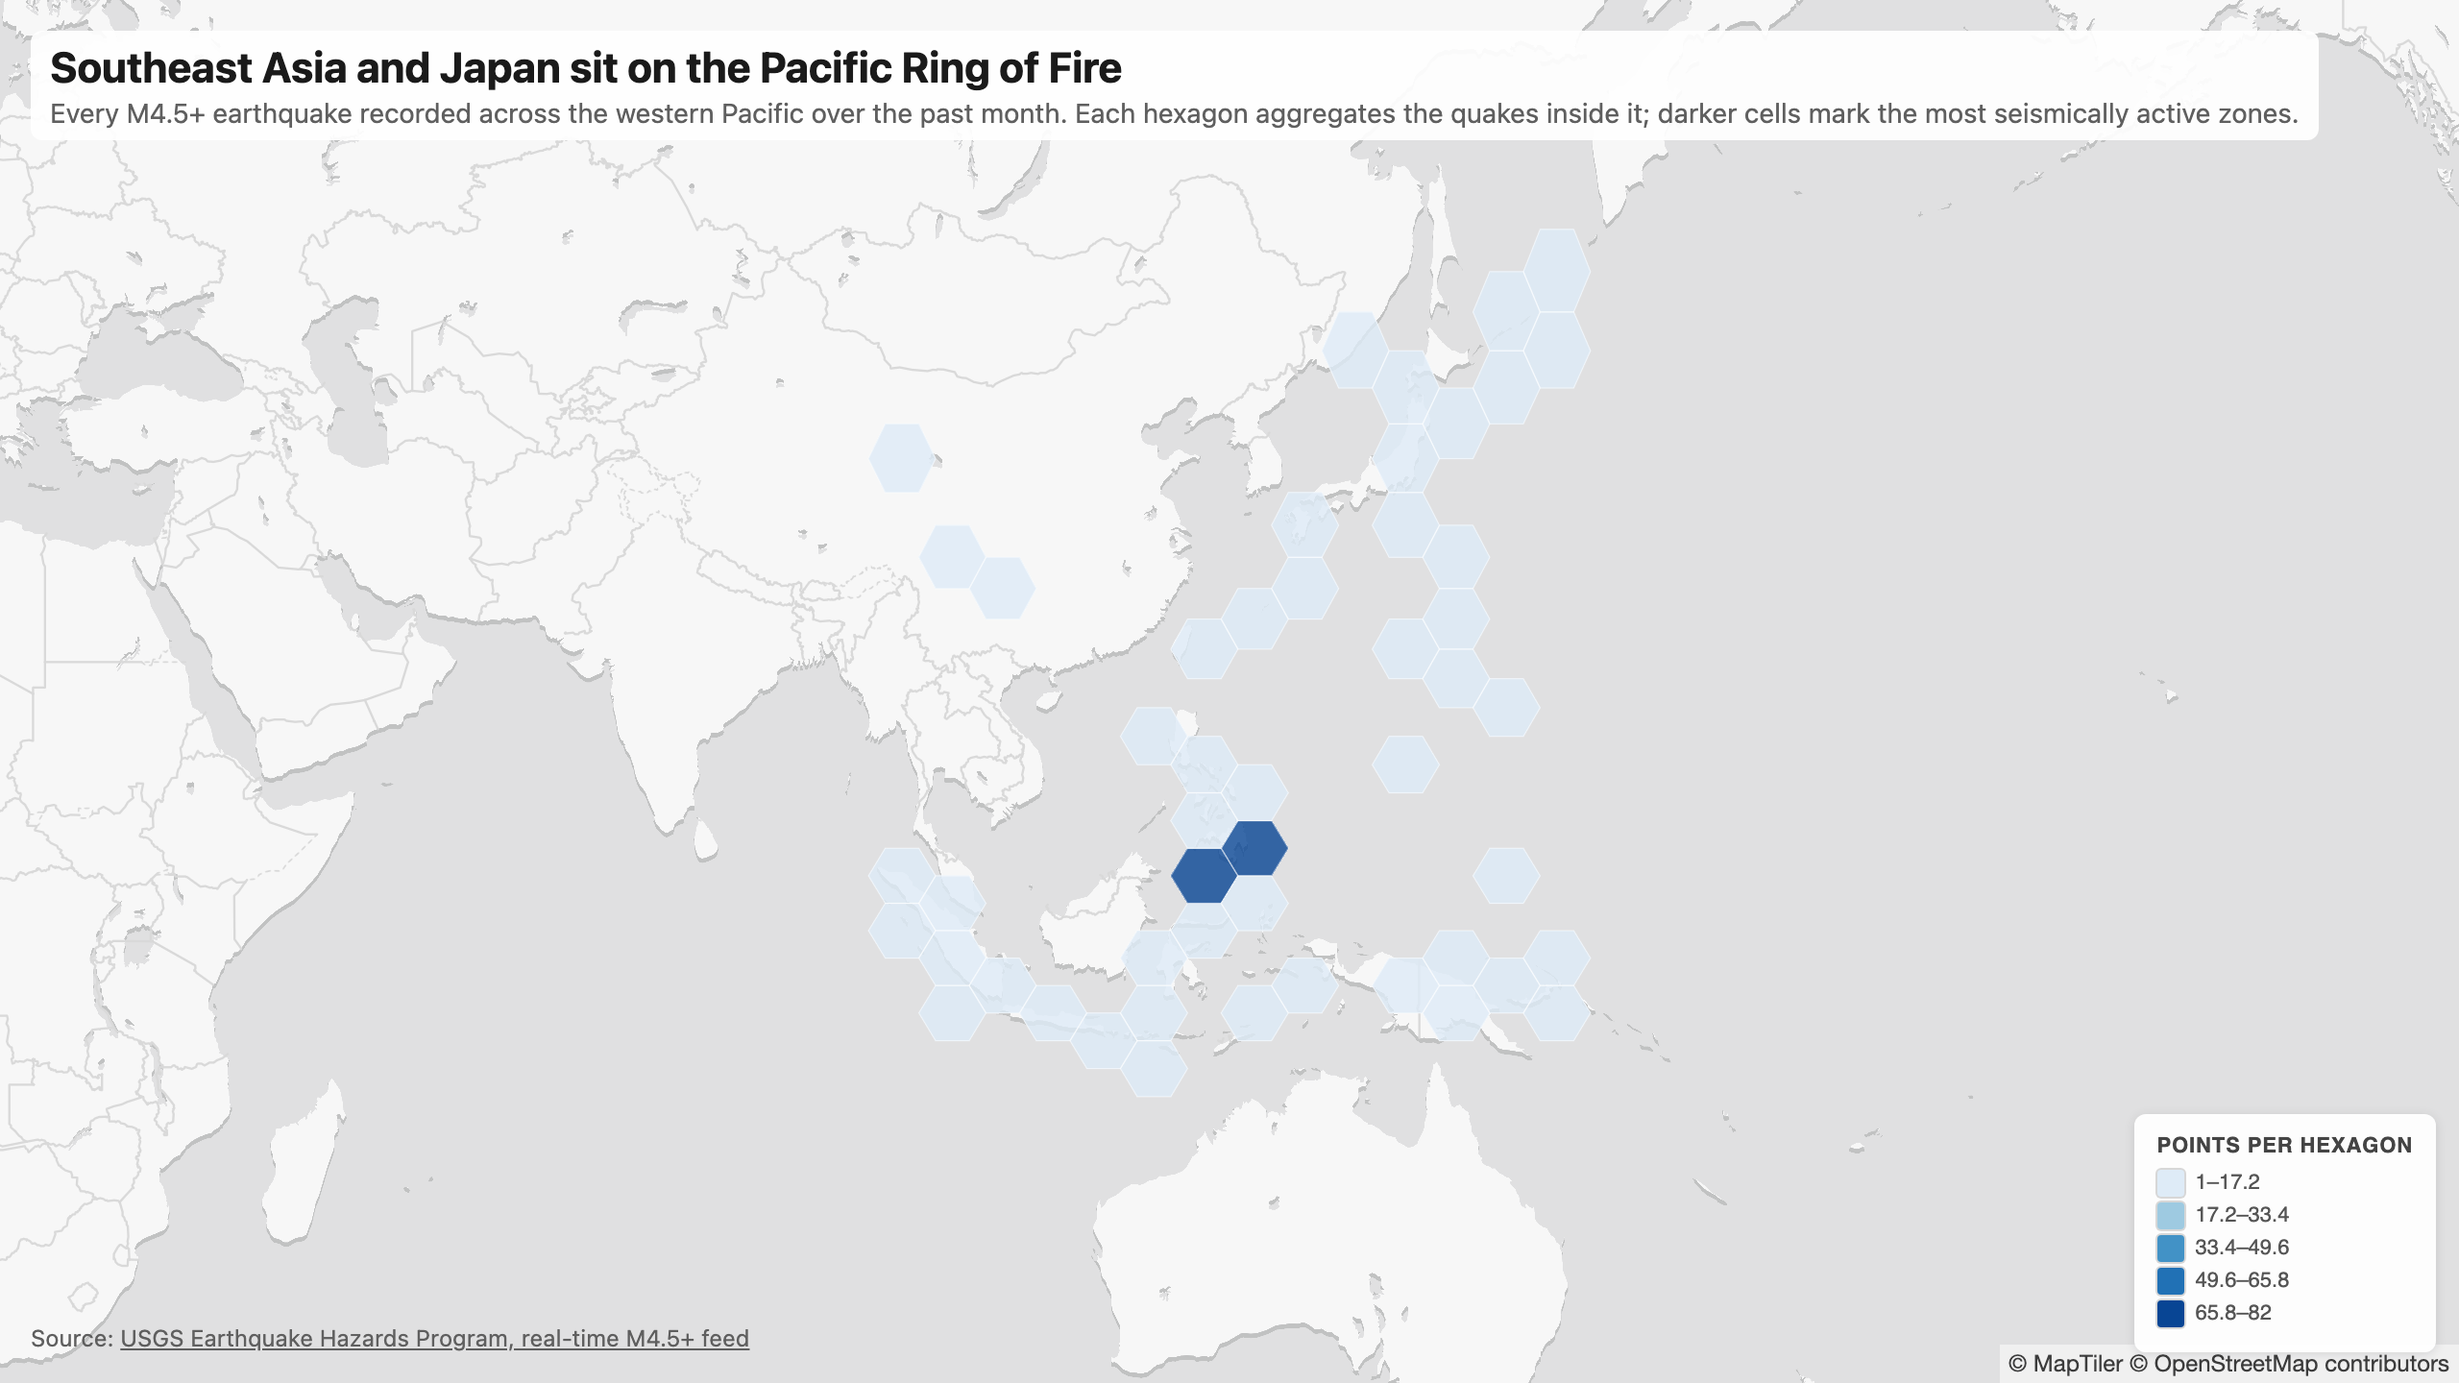
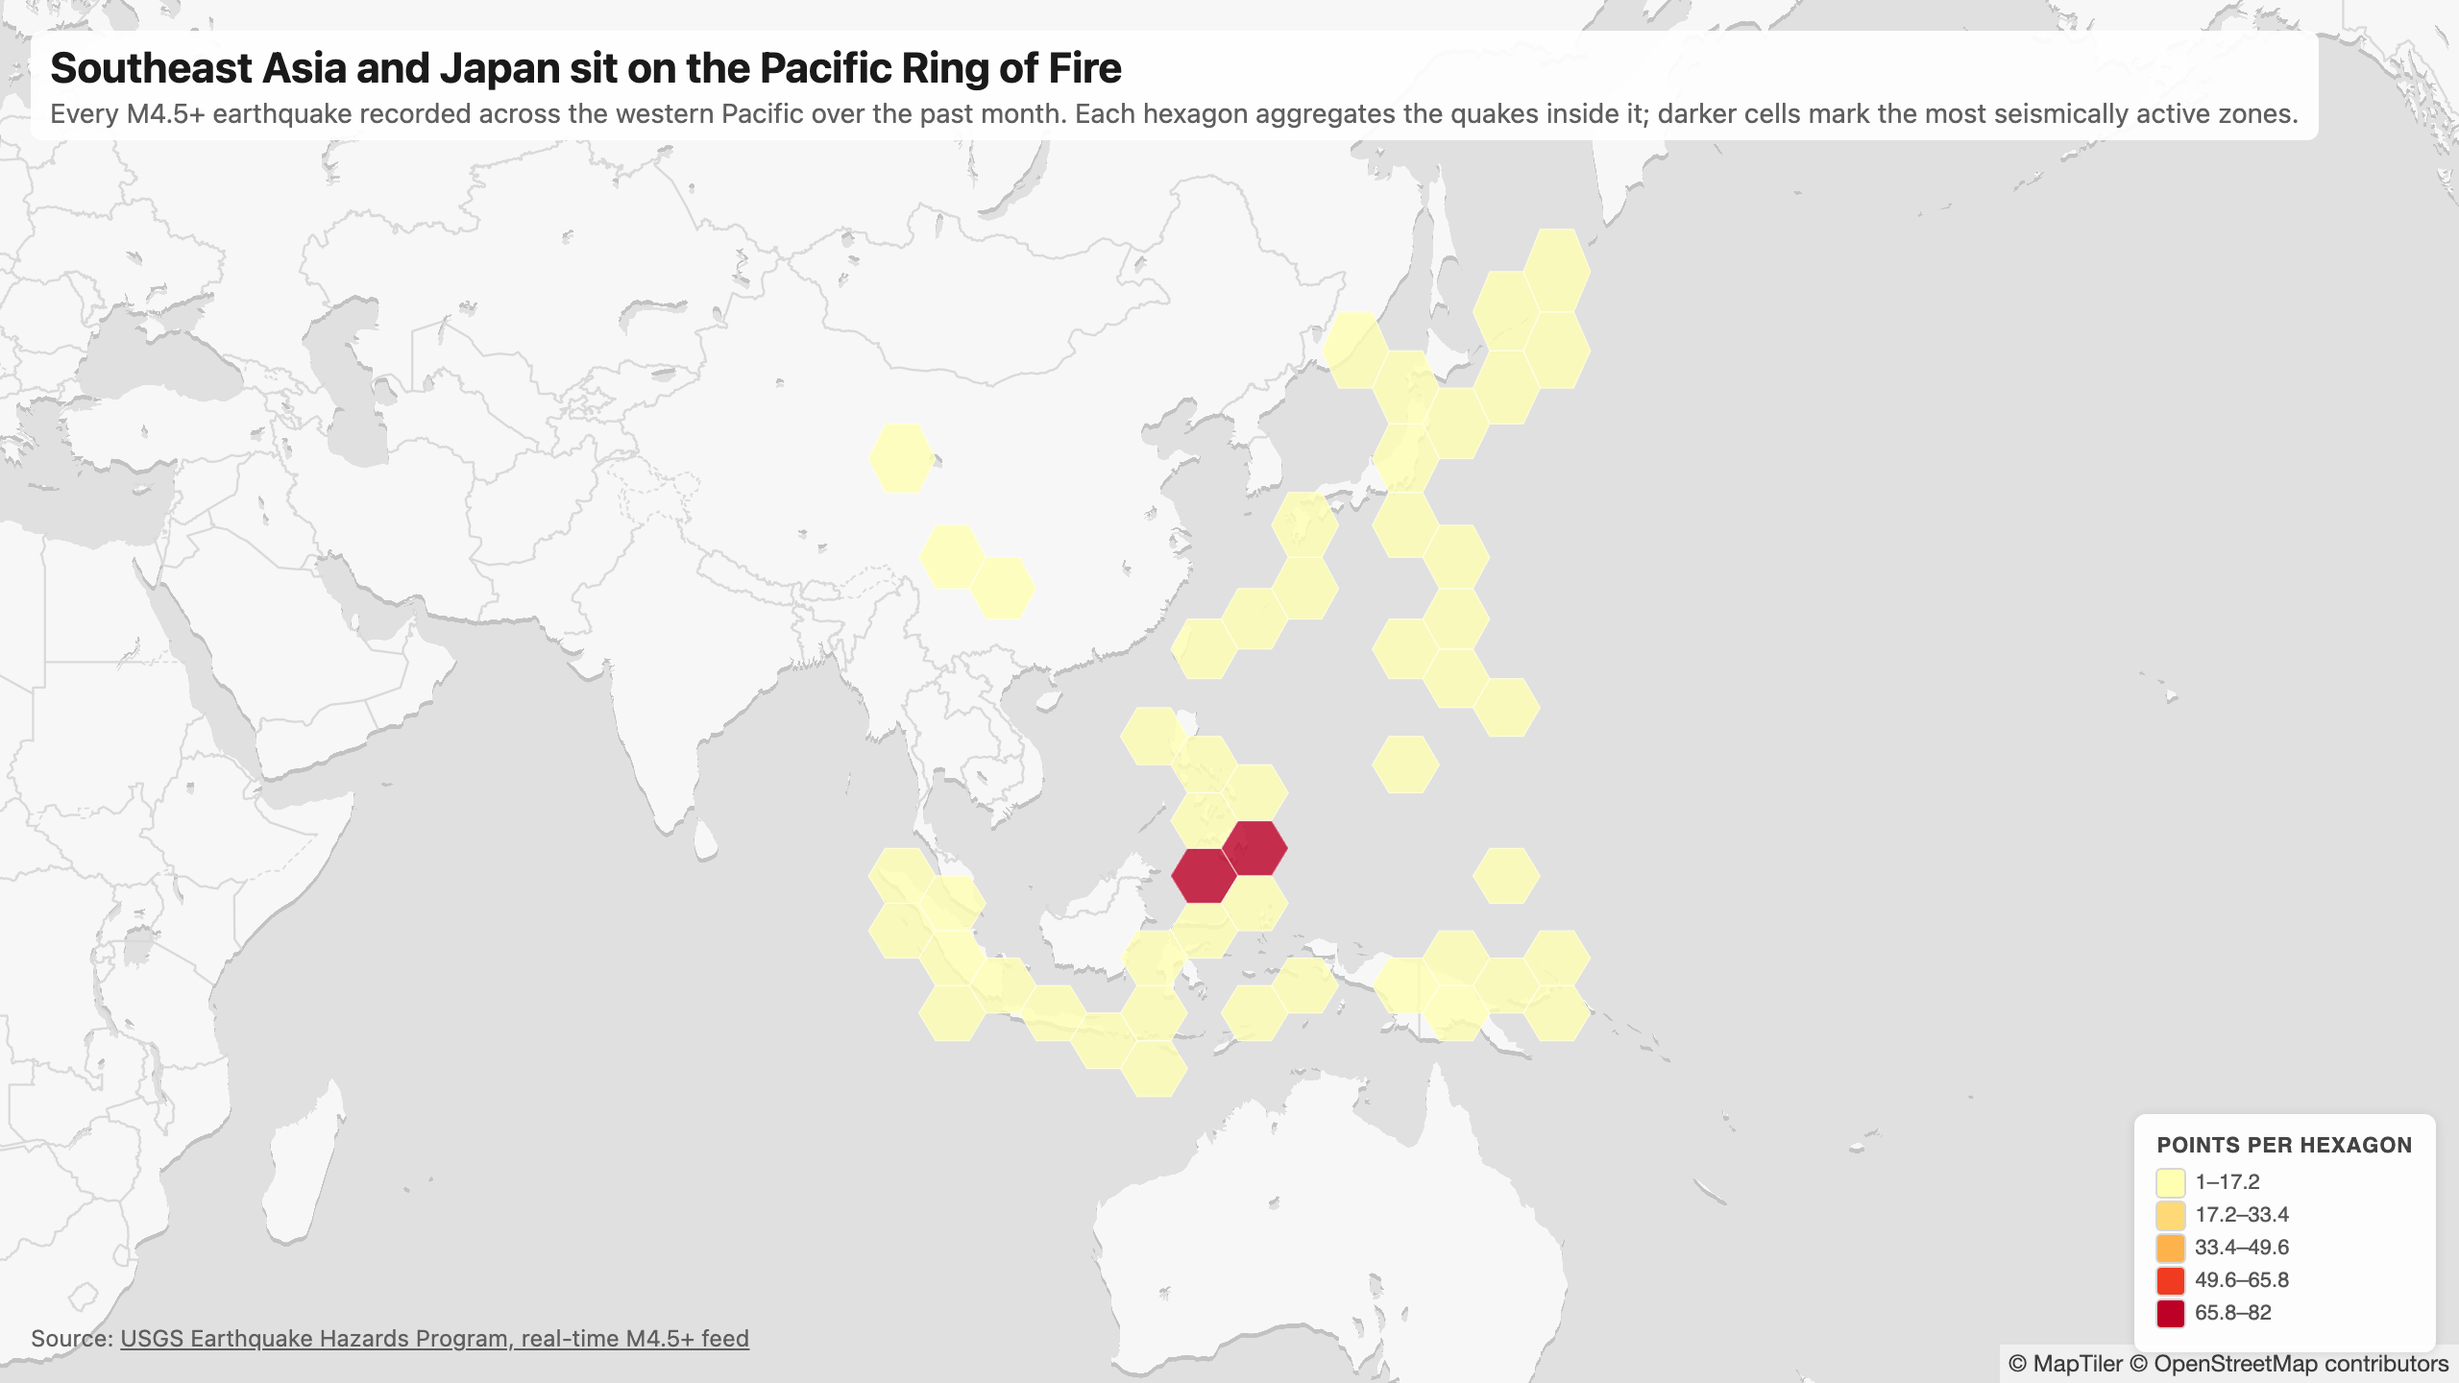
fix(map-native): hex-grid framing on wide/short viewports (F12) + hex palette
- F12: the free-pan maxBounds was built from getBounds(), which returns UNWRAPPED
  longitudes on a wrapped view (east 307.9 = -52+360) → a >360deg box MapLibre
  mishandles, pinning the map to a wrong-hemisphere corner (zoom 7.6). New shared
  safeSetMaxBounds (controls.ts) skips a near-global envelope; wired into all 6 map
  components so no sibling can drift. Hex-grid now passes at every width.
- hex-grid honours config.palette (was hard-coded BLUES) — seismicity renders amber.
- Guardrails: controls.test.ts, hex-grid-geo.test.ts. Full map-native unit suite green.

diff --git a/skills/map-native/src/hex-grid-geo.ts b/skills/map-native/src/hex-grid-geo.ts
@@ -11,7 +11,7 @@ import {
   point as turfPoint,
   featureCollection,
 } from "@turf/turf";
-import { BLUES } from "./theme/scale";
+import { BLUES, resolvePalette } from "./theme/scale";
 
 export interface HexGridData {
   points: { lon: number; lat: number; value?: number }[];
@@ -151,7 +151,16 @@ export function computeHexGrid(data: HexGridData): HexGridLayout {
 
   if (!raw.length) throw new Error("hex-grid: no populated cells");
 
-  // Sequential bins on the aggregate value (BLUES ramp, 5 classes) — mirrors choropleth's sequential scale.
+  // Sequential bins on the aggregate value (5 classes) — mirrors choropleth's sequential
+  // scale AND honours the config's `palette` (semantic aliases resolved), so a subject-fit
+  // ramp (amber for heat/seismicity, greens for environment…) is used instead of always
+  // BLUES. Falls back to BLUES when no palette is set.
+  const ramp = (data as { palette?: string | string[] }).palette
+    ? resolvePalette(
+        "sequential",
+        (data as { palette: string | string[] }).palette,
+      ).ramp
+    : BLUES;
   const values = raw.map((c) => c.value);
   const min = Math.min(...values),
     max = Math.max(...values);
@@ -160,7 +169,7 @@ export function computeHexGrid(data: HexGridData): HexGridLayout {
   const bins = Array.from({ length: nBins }, (_, i) => ({
     min: min + (span * i) / nBins,
     max: min + (span * (i + 1)) / nBins,
-    color: BLUES[Math.round((i / (nBins - 1)) * (BLUES.length - 1))],
+    color: ramp[Math.round((i / (nBins - 1)) * (ramp.length - 1))],
   }));
   const binOf = (v: number) => {
     for (let i = 0; i < nBins - 1; i++) if (v < bins[i].max) return i;

diff --git a/skills/map-native/tests/hex-grid-geo.test.ts b/skills/map-native/tests/hex-grid-geo.test.ts
@@ -1,6 +1,6 @@
 import { describe, it, expect } from "bun:test";
 import { computeHexGrid } from "../src/hex-grid-geo";
-import { BLUES } from "../src/theme/scale";
+import { BLUES, PALETTES } from "../src/theme/scale";
 
 // A tight cluster (many points) + a lone point far away → two populated cell regions.
 const cluster = Array.from({ length: 30 }, (_, i) => ({
@@ -21,9 +21,22 @@ describe("computeHexGrid — count", () => {
     expect(layout.cells.length).toBeGreaterThan(0);
     for (const c of layout.cells) expect(c.count).toBeGreaterThan(0);
   });
-  it("colours cells from the BLUES ramp via sequential bins", () => {
+  it("colours cells from the BLUES ramp via sequential bins (default, no palette)", () => {
     for (const c of layout.cells) expect(BLUES).toContain(c.color);
     expect(layout.bins.length).toBe(5);
+  });
+
+  it("HONOURS a config palette (amber→oranges) instead of always BLUES", () => {
+    const amber = computeHexGrid({
+      points,
+      binShape: "hex",
+      aggregate: "count",
+      palette: "amber", // semantic alias → oranges ramp
+    } as Parameters<typeof computeHexGrid>[0]);
+    for (const c of amber.cells)
+      expect(PALETTES.oranges.ramp).toContain(c.color);
+    // and NOT the default blue ramp
+    for (const c of amber.cells) expect(BLUES).not.toContain(c.color);
   });
   it("count aggregate = number of points in the cell", () => {
     const total = layout.cells.reduce((s, c) => s + c.count, 0);

diff --git a/skills/map-native/tests/controls.test.ts b/skills/map-native/tests/controls.test.ts
@@ -1,0 +1,30 @@
+import { describe, it, expect } from "bun:test";
+import { safeSetMaxBounds } from "../src/controls";
+
+// Minimal map stub that records setMaxBounds calls.
+function stubMap() {
+  const calls: unknown[] = [];
+  return { setMaxBounds: (b: unknown) => calls.push(b), calls } as any;
+}
+
+describe("safeSetMaxBounds (F12 — no >360° maxBounds)", () => {
+  it("sets a normal sub-global envelope", () => {
+    const m = stubMap();
+    safeSetMaxBounds(m, [80, -25], [170, 60]);
+    expect(m.calls.length).toBe(1);
+    expect(m.calls[0]).toEqual([
+      [80, -25],
+      [170, 60],
+    ]);
+  });
+  it("does NOT set a >360°-wide envelope (wrapped viewBounds produce -57.9 … 307.9)", () => {
+    const m = stubMap();
+    safeSetMaxBounds(m, [-57.9, -41.9], [307.9, 63.1]); // 365.8° wide
+    expect(m.calls.length).toBe(0); // guarded — left unbounded
+  });
+  it("does NOT set a near-global (>175° tall) envelope", () => {
+    const m = stubMap();
+    safeSetMaxBounds(m, [-170, -88], [170, 88]);
+    expect(m.calls.length).toBe(0);
+  });
+});

diff --git a/skills/map-native/src/controls.ts b/skills/map-native/src/controls.ts
@@ -1,5 +1,20 @@
 import * as maptilersdk from "@maptiler/sdk";
 
+// Set a free-pan maxBounds envelope, but ONLY when it is a real sub-global box. On a
+// wide/short viewport the map view can WRAP, so getBounds() returns UNWRAPPED longitudes
+// (e.g. east 307.9 = -52 + 360); building a maxBounds from that yields a >360°-wide box
+// which MapLibre mishandles — it pins the map to a zoomed-in wrong-hemisphere corner
+// (observed: zoom 7.6 centred in the Atlantic for a Pacific dataset, F12). A near-global
+// envelope constrains nothing anyway, so in that case leave the map unbounded. Shared by
+// every <Type>Map so no sibling type can reintroduce the bug.
+export function safeSetMaxBounds(
+  map: maptilersdk.Map,
+  sw: [number, number],
+  ne: [number, number],
+): void {
+  if (ne[0] - sw[0] < 355 && ne[1] - sw[1] < 175) map.setMaxBounds([sw, ne]);
+}
+
 /** Minimal IControl that resets the map to the initial data bounds. */
 export function makeResetControl(
   dataBounds: [number, number, number, number],

diff --git a/skills/map-native/src/RouteMap.tsx b/skills/map-native/src/RouteMap.tsx
@@ -4,7 +4,7 @@ import "@maptiler/sdk/dist/maptiler-sdk.css";
 import worldGeoJsonRaw from "../assets/geo/world.geojson?raw";
 const worldGeoJson = JSON.parse(worldGeoJsonRaw) as GeoJSON.FeatureCollection;
 import { computeRoute, resolveMapStyle, type RouteConfig } from "./route-geo";
-import { makeResetControl } from "./controls";
+import { makeResetControl, safeSetMaxBounds } from "./controls";
 import { resolveMapFrame } from "./core/map-format";
 import { MapFrame } from "./core/MapFrame";
 
@@ -117,10 +117,7 @@ export const RouteMap: React.FC<Props> = ({ config, interactive = false }) => {
             rawNe[0],
             rawNe[1],
           ]);
-          m.setMaxBounds([
-            [cw, cs],
-            [ce, cn],
-          ]);
+          safeSetMaxBounds(m, [cw, cs], [ce, cn]);
         });
       }
     }

diff --git a/skills/map-native/src/DotDensityMap.tsx b/skills/map-native/src/DotDensityMap.tsx
@@ -6,7 +6,7 @@ const worldGeoJson = JSON.parse(worldGeoJsonRaw) as GeoJSON.FeatureCollection;
 import { computeDotDensity } from "./dot-density-geo";
 import { scatterInPolygon } from "./dot-scatter";
 import { resolveMapStyle } from "./route-geo";
-import { makeResetControl } from "./controls";
+import { makeResetControl, safeSetMaxBounds } from "./controls";
 import { resolveMapFrame } from "./core/map-format";
 import { MapFrame } from "./core/MapFrame";
 import type { DotDensityConfigShape } from "./validate-config";
@@ -117,10 +117,7 @@ export const DotDensityMap: React.FC<Props> = ({
             rawNe[0],
             rawNe[1],
           ]);
-          m.setMaxBounds([
-            [cw, cs],
-            [ce, cn],
-          ]);
+          safeSetMaxBounds(m, [cw, cs], [ce, cn]);
         });
       }
     }

diff --git a/skills/map-native/src/ChoroplethMap.tsx b/skills/map-native/src/ChoroplethMap.tsx
@@ -17,7 +17,7 @@ const GEOJSON_BY_BASEMAP: Record<string, GeoJSON.FeatureCollection> = {
 import { computeChoropleth, type ChoroplethData } from "./choropleth-geo";
 import { choroplethFillColor, choroplethFillOpacity } from "./choropleth-paint";
 import type { CameraMode } from "./camera-mode";
-import { makeResetControl } from "./controls";
+import { makeResetControl, safeSetMaxBounds } from "./controls";
 import { resolveMapFrame } from "./core/map-format";
 import { MapFrame } from "./core/MapFrame";
 
@@ -153,7 +153,7 @@ export const ChoroplethMap: React.FC<Props> = ({
           ]);
           const sw: [number, number] = [cw, cs];
           const ne: [number, number] = [ce, cn];
-          m.setMaxBounds([sw, ne]);
+          safeSetMaxBounds(m, sw, ne);
         });
       }
     }

diff --git a/skills/map-native/src/HexGridMap.tsx b/skills/map-native/src/HexGridMap.tsx
@@ -3,7 +3,7 @@ import * as maptilersdk from "@maptiler/sdk";
 import "@maptiler/sdk/dist/maptiler-sdk.css";
 import { computeHexGrid } from "./hex-grid-geo";
 import { resolveMapStyle } from "./route-geo";
-import { makeResetControl } from "./controls";
+import { makeResetControl, safeSetMaxBounds } from "./controls";
 import { resolveMapFrame } from "./core/map-format";
 import { MapFrame } from "./core/MapFrame";
 import type { HexGridConfigShape } from "./validate-config";
@@ -113,10 +113,7 @@ export const HexGridMap: React.FC<Props> = ({
             rawNe[0],
             rawNe[1],
           ]);
-          m.setMaxBounds([
-            [cw, cs],
-            [ce, cn],
-          ]);
+          safeSetMaxBounds(m, [cw, cs], [ce, cn]);
         });
       }
     }

diff --git a/skills/map-native/src/SymbolMap.tsx b/skills/map-native/src/SymbolMap.tsx
@@ -4,7 +4,7 @@ import "@maptiler/sdk/dist/maptiler-sdk.css";
 import { symbolGeometry, type SymbolData } from "./symbol-geo";
 import type { CameraMode } from "./camera-mode";
 import { symbolLabels, labelRadialOffset } from "./symbol-labels";
-import { makeResetControl } from "./controls";
+import { makeResetControl, safeSetMaxBounds } from "./controls";
 import { resolveMapFrame } from "./core/map-format";
 import { MapFrame } from "./core/MapFrame";
 
@@ -141,7 +141,7 @@ export const SymbolMap: React.FC<Props> = ({
           ]);
           const sw: [number, number] = [cw, cs];
           const ne: [number, number] = [ce, cn];
-          m.setMaxBounds([sw, ne]);
+          safeSetMaxBounds(m, sw, ne);
         });
       }
     }

diff --git a/skills/map-native/src/LocatorMap.tsx b/skills/map-native/src/LocatorMap.tsx
@@ -9,7 +9,7 @@ import {
   type LabelBox,
 } from "./locator-labels";
 import { resolveMapStyle } from "./route-geo";
-import { makeResetControl } from "./controls";
+import { makeResetControl, safeSetMaxBounds } from "./controls";
 import { resolveMapFrame } from "./core/map-format";
 import { MapFrame } from "./core/MapFrame";
 
@@ -153,10 +153,7 @@ export const LocatorMap: React.FC<Props> = ({
             rawNe[0],
             rawNe[1],
           ]);
-          m.setMaxBounds([
-            [cw, cs],
-            [ce, cn],
-          ]);
+          safeSetMaxBounds(m, [cw, cs], [ce, cn]);
         });
       }
     }

diff --git a/docs/atelier/workflow-tests/ROUND5-RESULTS.md b/docs/atelier/workflow-tests/ROUND5-RESULTS.md
@@ -27,19 +27,23 @@ plus a **map scrolly** (which also re-verifies the F11 narrative fix in the scro
   when the width is unfittable: a floored-zoom map centres near the equator while
   northern-hemisphere data still sits fully in view. Fixed the global cartogram at 360 px.
 
-**Logged for a dedicated fix (real, not blocking the static/interactive deliverables):**
-- **F12 — hex-grid framing breaks on wide/global extents.** Two cases: (a) a GLOBAL,
-  antimeridian-crossing point set produces degenerate layout bounds wider than 360°
-  (−216°…+216°) and centres the map on the antimeridian; (b) at a wide-SHORT viewport
-  (1600×560) the fit degenerates to a zoomed-in, wrong-hemisphere view (zoom 7.6, centred
-  in the Atlantic for a Pacific dataset). `clampFitPad` (padding cap) did NOT resolve (b),
-  so the cause is deeper than furniture padding — likely a longitude-wrap ambiguity in the
-  hex-grid fit for extents approaching/exceeding half the globe. Needs a focused fix; other
-  map types (dot-density, cartogram, choropleth) frame the same-width viewport fine, so it
-  is hex-grid-specific. Mitigation for now: a REGIONAL hex-grid (a clean sub-global bbox)
-  frames correctly.
+**F12 — hex-grid framing on wide/short viewports — FIXED (root cause found).** At a
+wide-SHORT viewport (1600×560) the fit degenerated to a zoomed-in, wrong-hemisphere view
+(zoom 7.6, centred in the Atlantic for a Pacific dataset). Root cause: the idle handler
+built the free-pan `maxBounds` from `getBounds()`, which returns UNWRAPPED longitudes when
+the view wraps (east 307.9 = −52 + 360) → a >360°-wide box that MapLibre mishandles,
+pinning the map to a corner. Fix: a shared `safeSetMaxBounds` helper (`controls.ts`) that
+skips a near-global (>355° wide / >175° tall) envelope — it constrains nothing anyway —
+wired into ALL SIX map components so no sibling type can reintroduce it. Guardrail:
+`controls.test.ts`. Hex-grid now passes at every width. (The separate GLOBAL
+antimeridian-crossing case — a single point set spanning the whole world — is still best
+served by a regional focus; the guard prevents the crash, and a truly global hex-grid is a
+rare editorial choice.)
+
+**Also fixed:** hex-grid now HONOURS the `palette` config field (was hard-coded to BLUES)
+— the Ring-of-Fire map renders in the amber/oranges ramp fit for seismicity. Guardrail:
+`hex-grid-geo.test.ts`.
 
 **Minor polish (noted, non-blocking):**
-- hex-grid ignores the `palette` config field (rendered blue, not the requested amber).
 - scrolly caption grammar ("1 nights" → "1 night") and the middle leaders (rank 2/3) show
   "name — value" without the ordinal that `magnitudeCaption` provides on the video path.
